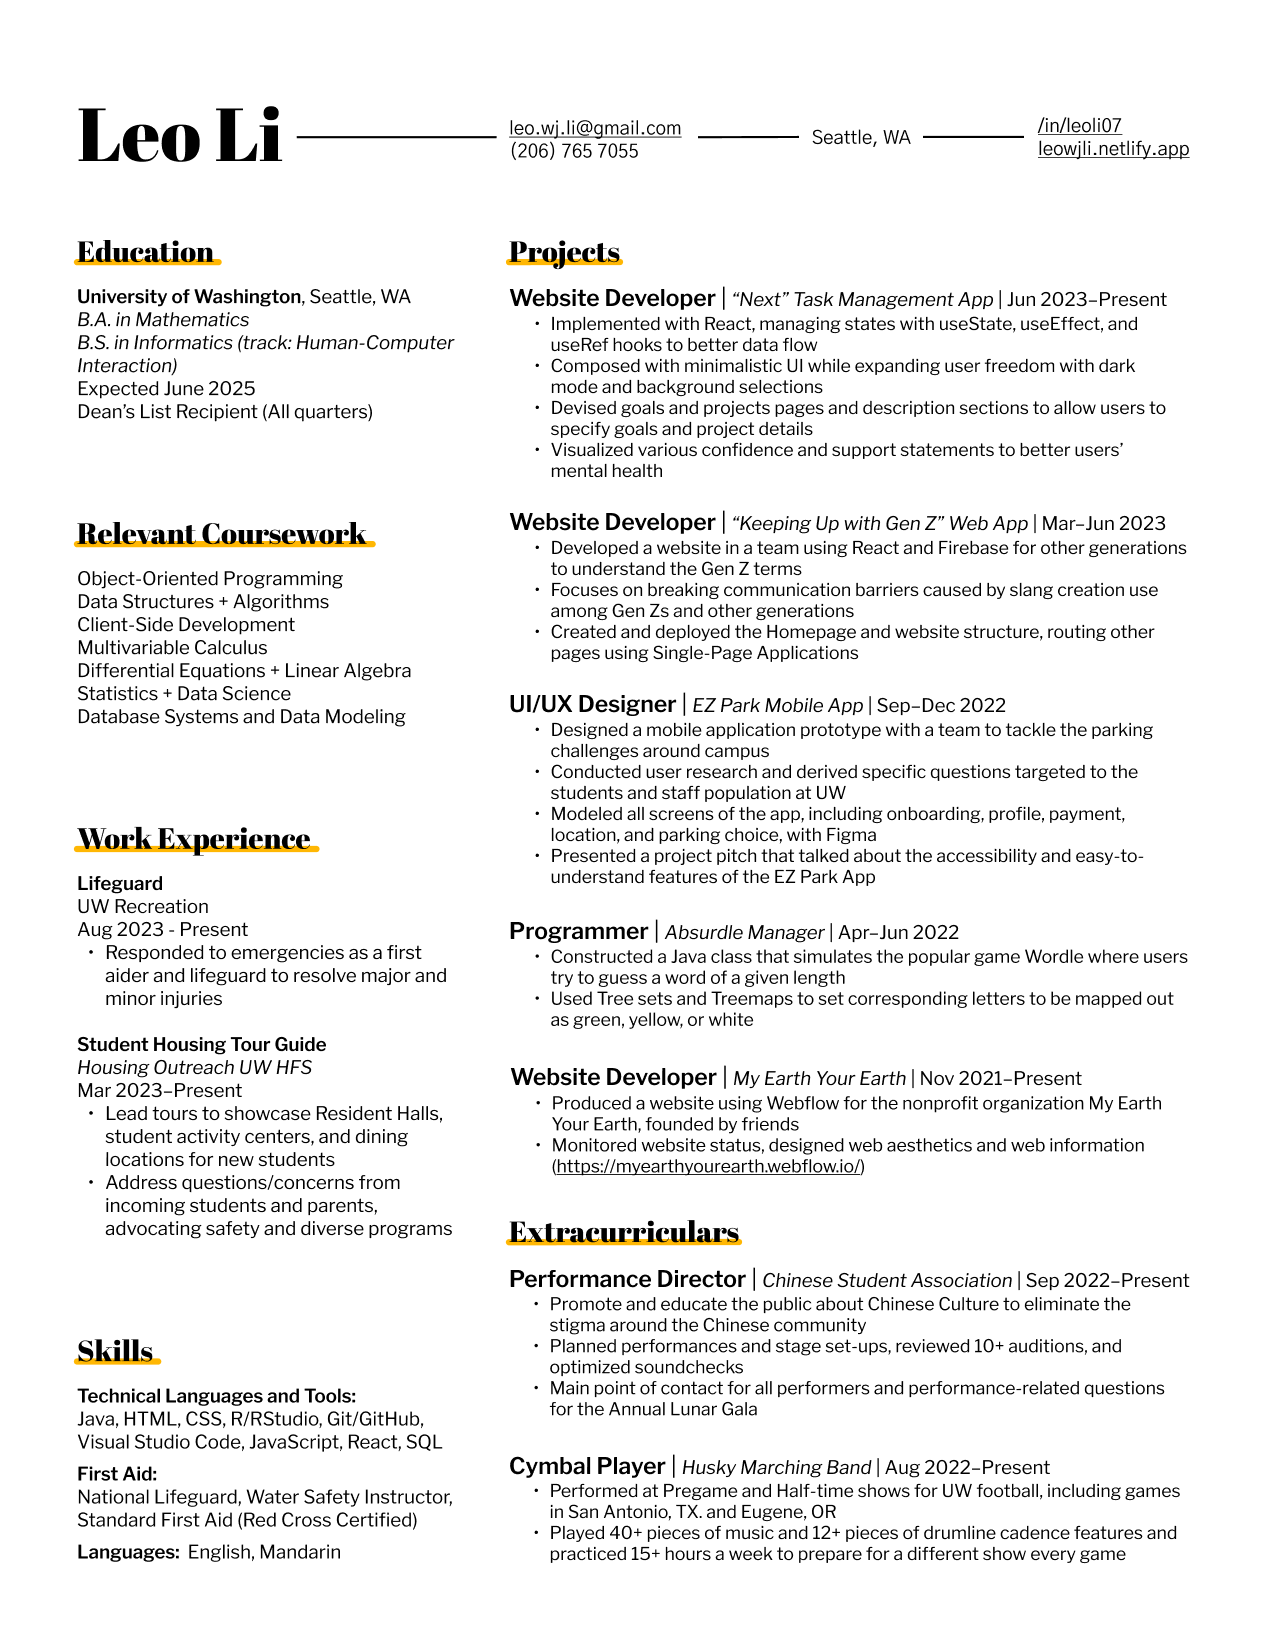
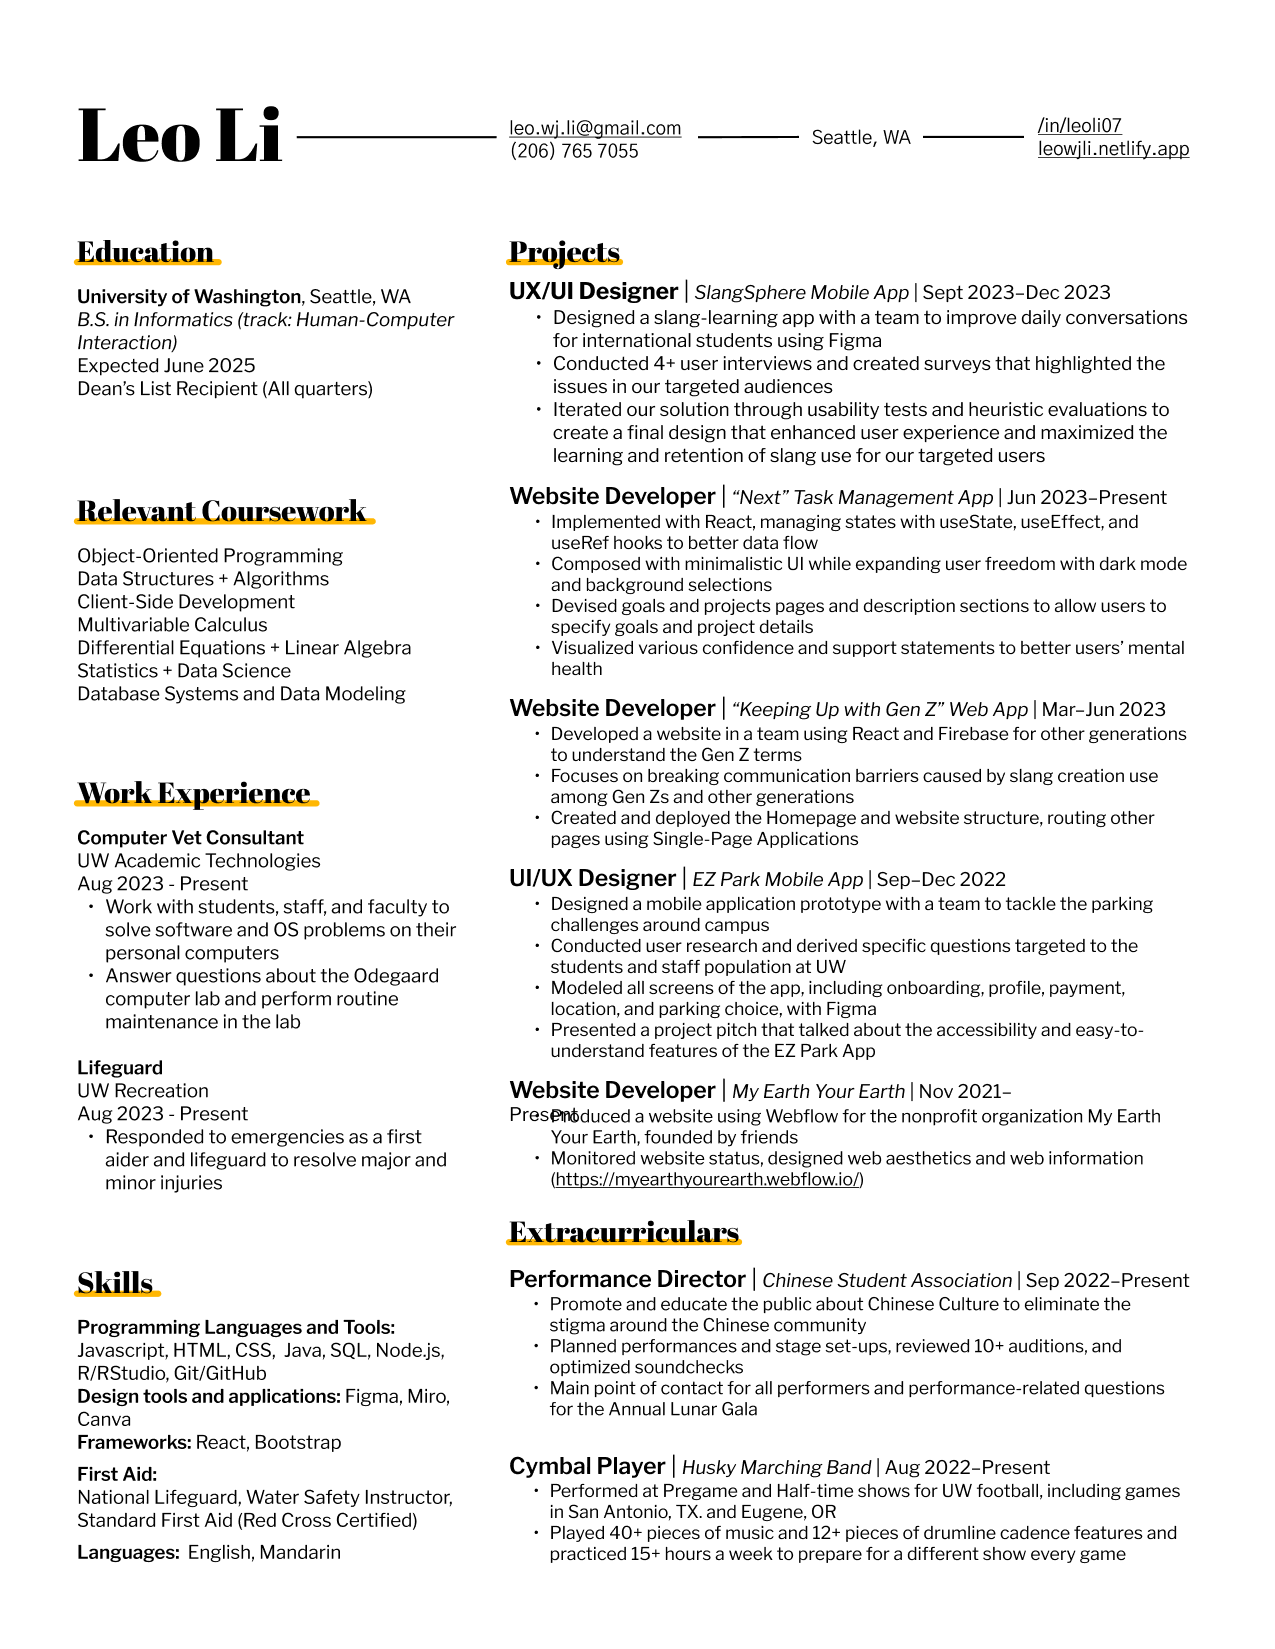
updated resume and involvements

Changed region(s): [[0.3976, 0.1546, 0.9176, 0.7423], [0.0612, 0.3093, 0.3365, 0.9278], [0.0612, 0.1856, 0.3671, 0.2784]]

diff --git a/src/components/InvolveCards.js b/src/components/InvolveCards.js
@@ -17,7 +17,7 @@ import { Link } from "react-router-dom";
   export default function InvolveCards() {
     return (
       <div className="activities">
-        <Cards position={"Frontend Developer at "} link={"https://truecollege.org/"} org={"tc"} orgName={"True College"} />
+        <Cards position={"Computer Vet at"} link={"https://itconnect.uw.edu/help/the-computer-vet/"} orgName={"UW Academic Technologies"} />
         <Cards position={"UX Design + Web Development for "} link={"https://myearthyourearth.webflow.io/"} orgName={"My Earth Your Earth"} />
         <Cards position={"Officer and Performance Director at "} link={"https://www.csauw.com/"} org={"csa"} orgName={"Chinese Student Assoication"} />
         <Cards position={"Cymbals Player for the Husky Drumline and "} link={"https://www.huskymarchingband.org/"} org={"hmb"} orgName={"Husky Marching Band"} />
